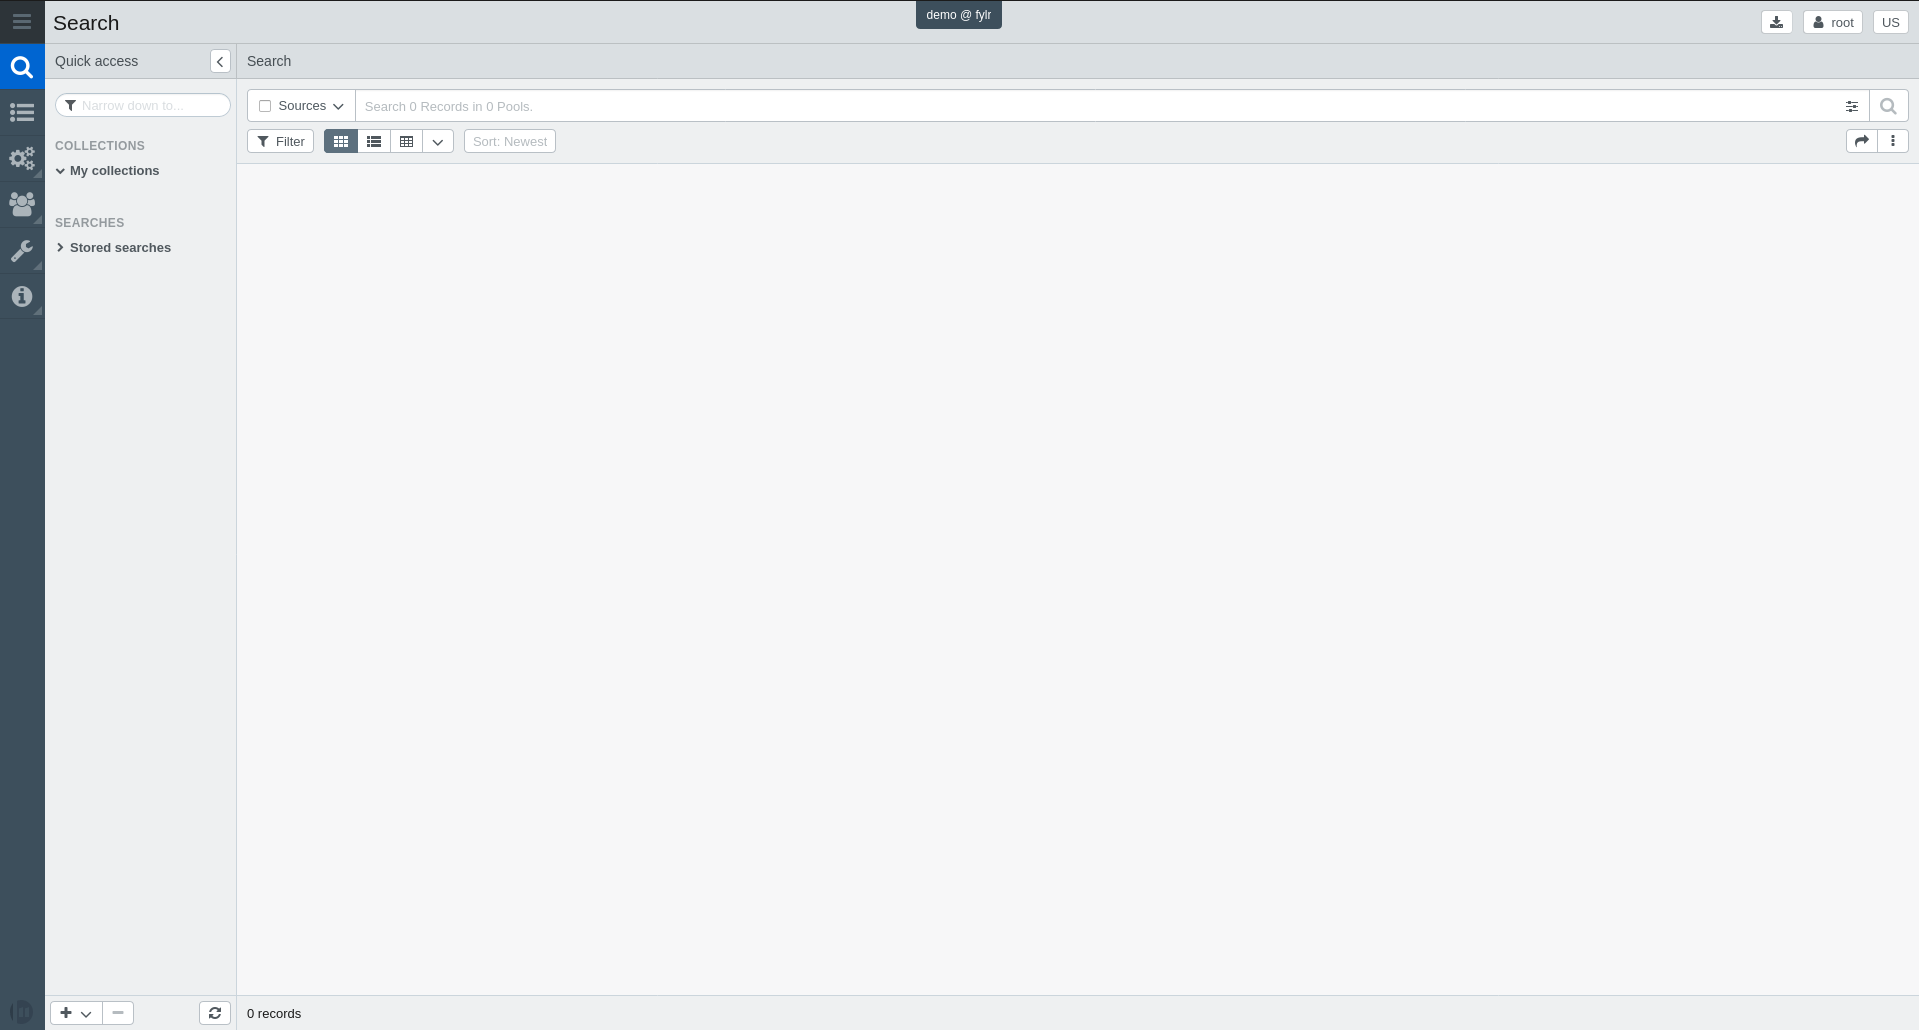
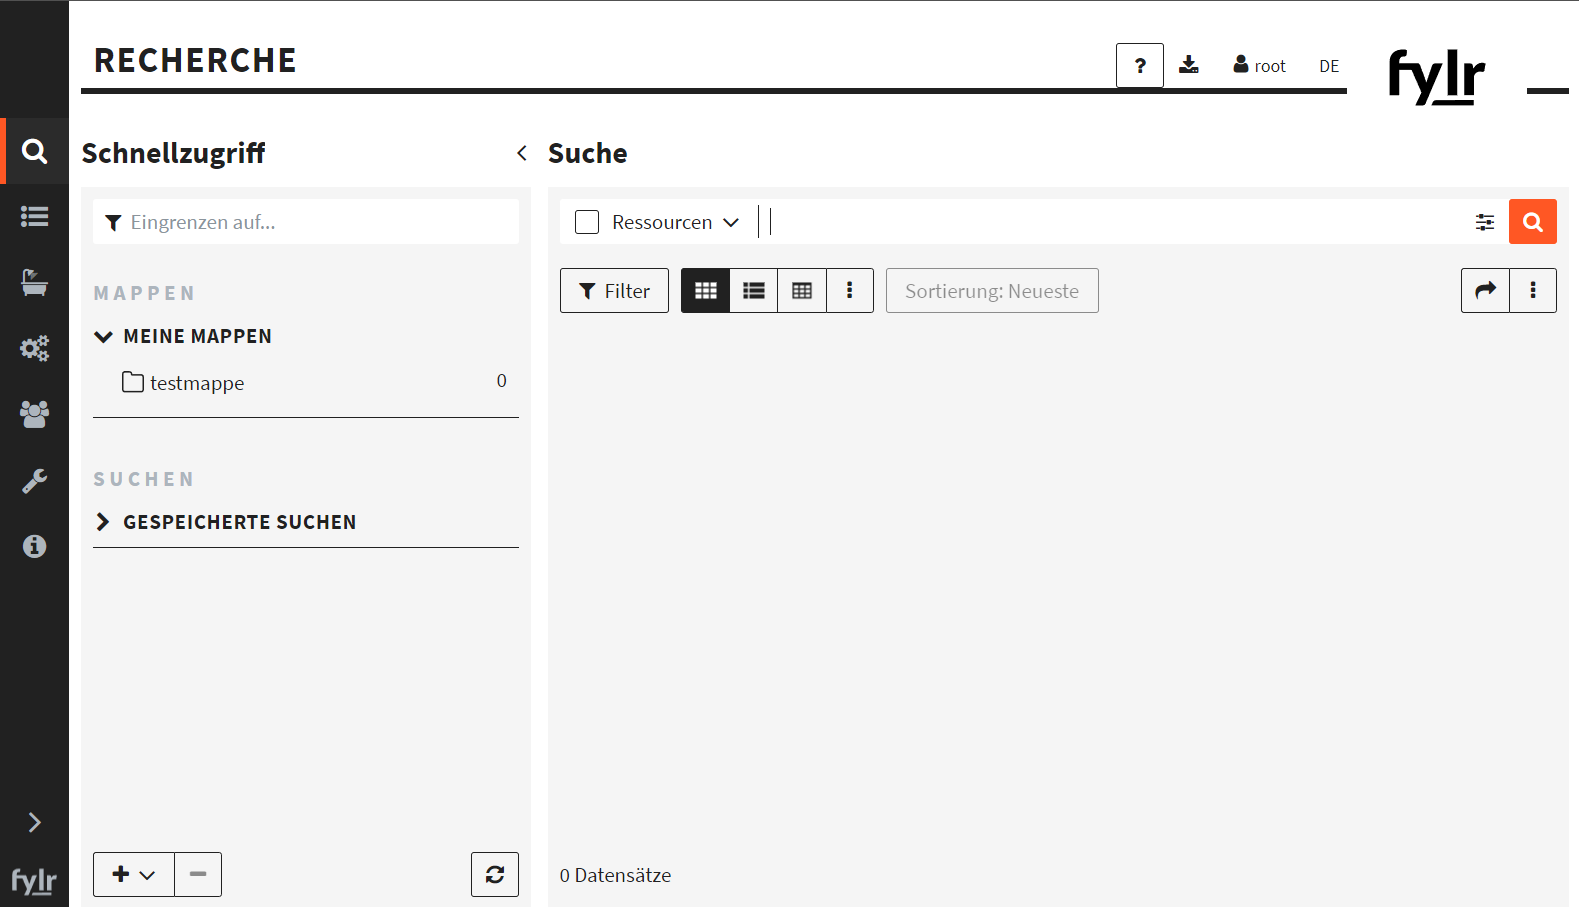
use lists to create more coherence; simplify webfrontend-customization; update screenshot

diff --git a/desktop/README.md b/desktop/README.md
@@ -1,4 +1,4 @@
-How to take a look at fylr on your local environment.
+How to take a look at fylr in your local environment.
 
 # Requirements
 
@@ -6,51 +6,46 @@ How to take a look at fylr on your local environment.
 
 * 4 GB RAM available (we recommend 8 GB)
 
-## Installation
+# Installation
 
-The following command helps you set up the required directories:
+1. create the directories for configuration:
 
 ```bash
 mkdir -p fylr/config
 ```
 
-### configuration files
-
-download configuration files
+2. download example configuration files
 
 ```bash
 curl https://raw.githubusercontent.com/programmfabrik/fylr-install/main/desktop/fylr.yml > flyr/config/fylr.yml
 curl https://raw.githubusercontent.com/programmfabrik/fylr-install/main/desktop/execserver.yml > flyr/config/execserver.yml
 ```
+3. increase memory limit for elasticsearch:
 
-### Increase memory limit for elasticsearch
-
-For example, if your container engine is Docker Desktop for Windows with WSL2:
+* if your container engine is Docker Desktop for Windows with WSL2:
 
 ```bash
 wsl -u root sysctl -w vm.max_map_count=262144
 ```
 
-If you are using Linux only:
+* If you are using Linux only:
 
 ```bash
 sudo sysctl -w vm.max_map_count=262144
 ```
 
-### docker-compose
-
-Much of the setup is encapsulated in docker-compose file. Download and use it like this:
+4. docker-compose: Much of the setup is encapsulated in a docker-compose file. Download and use it like this:
 
 ```bash
 curl https://raw.githubusercontent.com/programmfabrik/fylr-install/main/desktop/docker-compose.yml > docker-compose.yml
 docker-compose up -d
 ```
 
-## result
+# result
 
 you can now surf to your local fylr webfrontend at http://127.0.0.1:8080
 
-## Further reading
+# Further reading
 
 * [Use a customized Web-Frontend](../customization/webfrontend.md)
 

diff --git a/README.md b/README.md
@@ -1,10 +1,10 @@
 # fylr installation methods
 
-To temporarily set up fylr on your Desktop: [Docker Desktop](desktop/README.md).
+* [desktop/README.md](desktop/README.md): To temporarily set up fylr on your Desktop.
 
-To set up fylr on a server via docker: will be linked when updated (docker/README.md).
+* (docker/README.md): To set up fylr on a server via docker: will be linked when updated.
 
-To set up fylr via kubernetes: will be linked when updated (kubernetes/README.md).
+* (kubernetes/README.md): To set up fylr via kubernetes: will be linked when updated.
 
 Screenshot of running fylr webfrontend:
 

diff --git a/customization/webfrontend.md b/customization/webfrontend.md
@@ -1,16 +1,11 @@
 # Webfrontend changes
 
-## Requirements
+To instruct fylr to use a custom webfrontend which is located in e.g. `./fylr/webfrontend/`:
 
-We assume you installed fylr via ../docker/README.md
-If you want to change the webfrontend, use this as a starting point:
-
-To instruct fylr to use a custom webfrontend in e.g. the path `./fylr/webfrontend/`, add to docker-compose.yml:
+add to docker-compose.yml:
 
 ```yaml
   fylr-server:
-    container_name: fylr-server
-    ...
     volumes:
       - "./fylr/webfrontend:/fylr/files/webfrontend"
 ```
